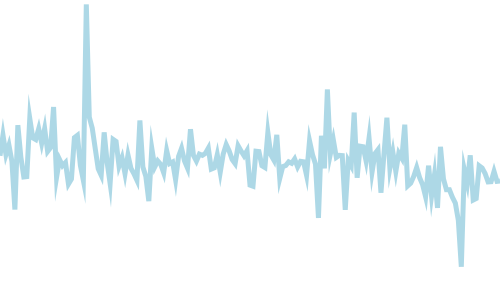
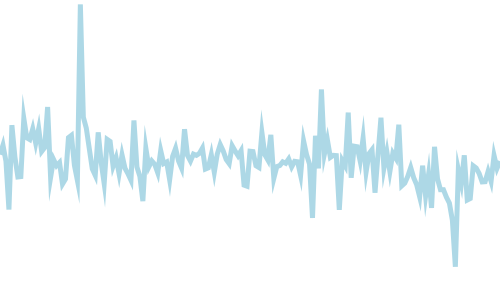
made the data ssr

Changed region(s): [[0.0, 0.0, 1.0, 0.9]]

diff --git a/pages/index.tsx b/pages/index.tsx
@@ -61,7 +61,7 @@ const Index: React.FC<{ coinData: any; chartArr: any }> = ({
               </td> */}
               <td>
                 <img
-                  src={`images/chart${i+1}.png`}
+                  src={`images/chart${i + 1}.png`}
                   alt="chart img"
                   width="17%"
                   height="17%"
@@ -81,7 +81,7 @@ const Index: React.FC<{ coinData: any; chartArr: any }> = ({
   );
 };
 export default Index;
-export const getServerSideProps: any = async () => {
+export const getStaticProps: any = async () => {
   const fetchCoinList: any = await fetch(
     "https://api.coingecko.com/api/v3/coins/markets?vs_currency=usd&order=market_cap_desc&per_page=10&page=1&sparkline=false"
   );
@@ -146,10 +146,11 @@ export const getServerSideProps: any = async () => {
     chart.toFile(`public/images/chart${i}.png`);
     return;
   }
-   coinData.map((coin: any, i: number) => {
+  coinData.map((coin: any, i: number) => {
     return getCoinChart(coin.id, i + 1);
   });
   return {
     props: { coinData },
+    revalidate: 120,
   };
 };

diff --git a/README.md b/README.md
@@ -1,3 +1,3 @@
 # Crypto Coins
 
-[Visit Live Site](https://crypto_coins.vercel.app/)
+[Visit Live Site](https://top-crypto-coins.vercel.app/)
